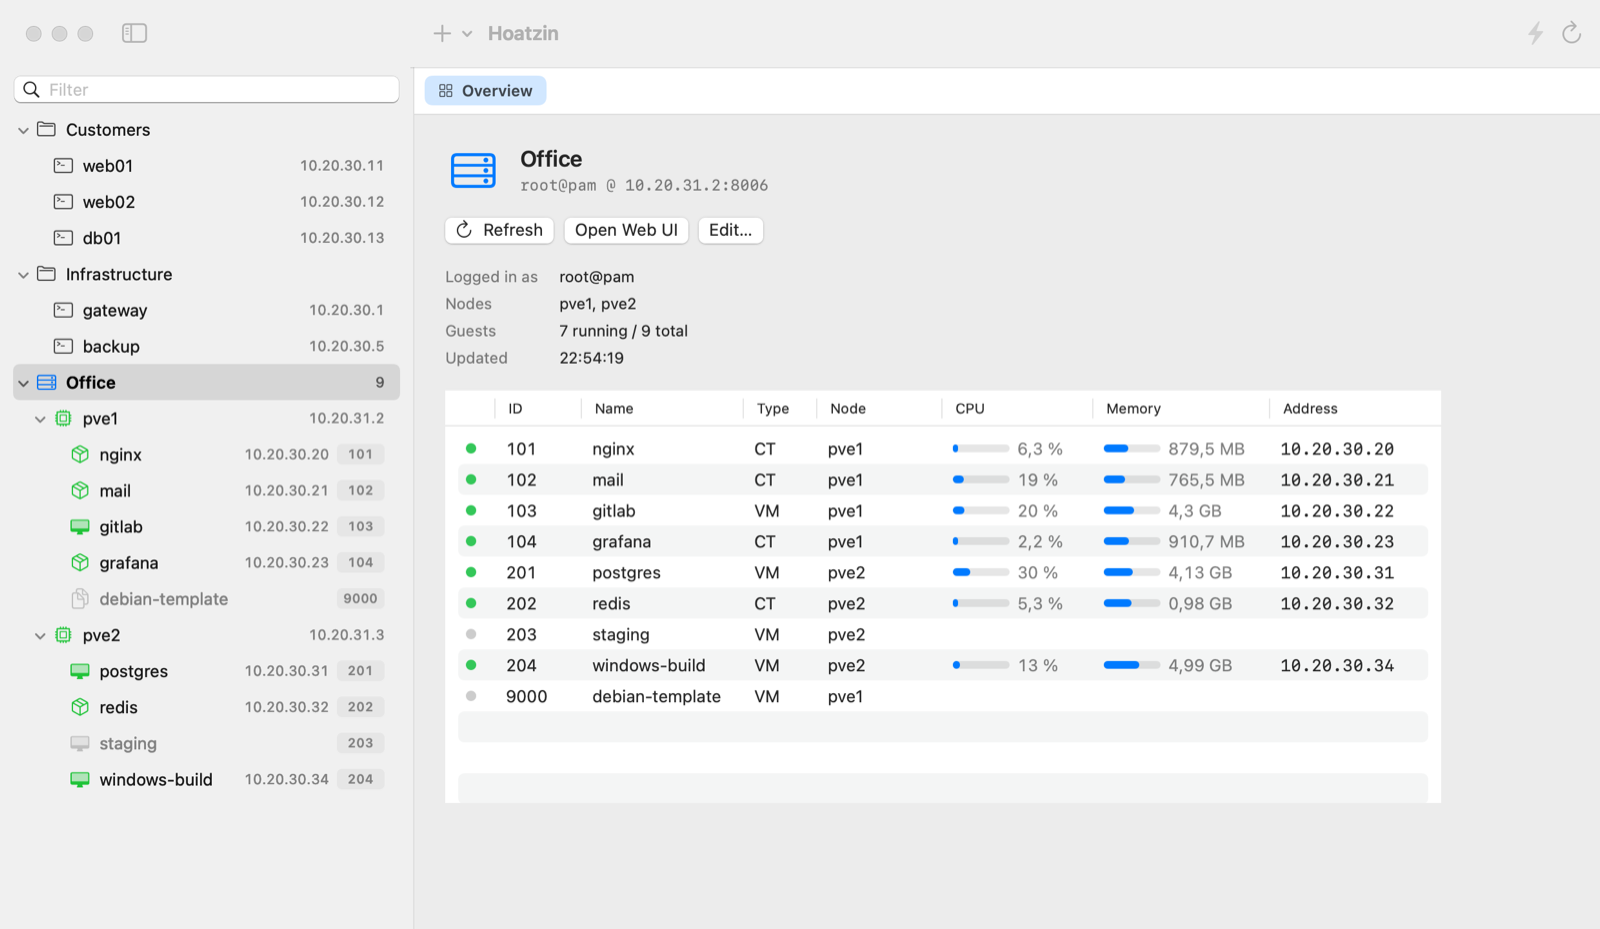
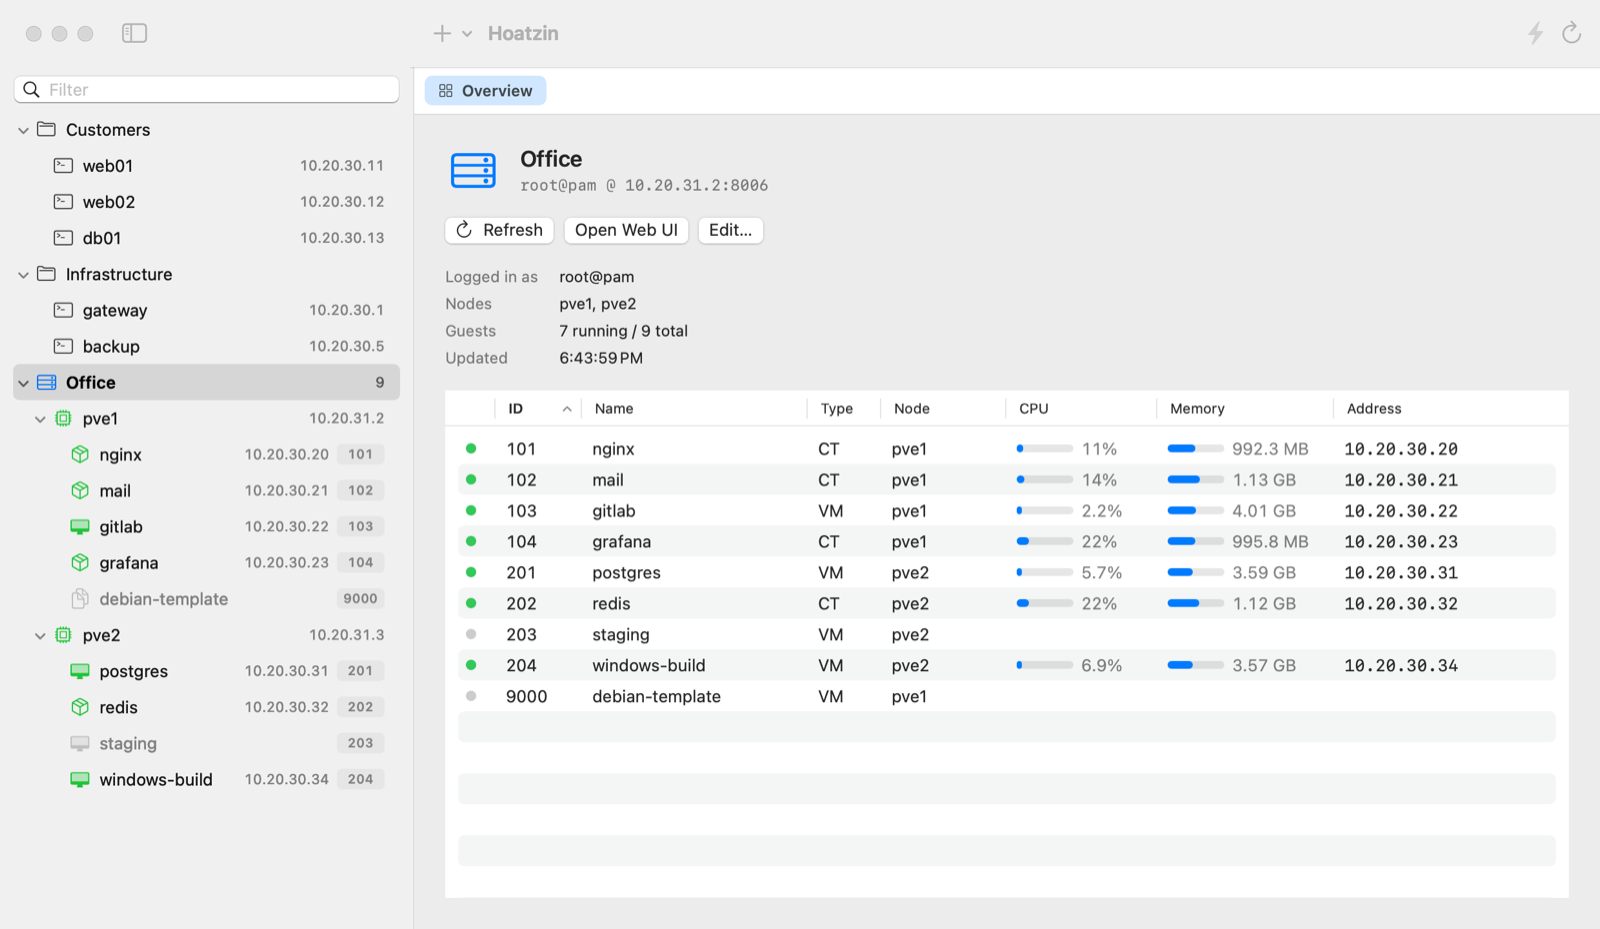
Let the guest table fill the window and open SSH in the built-in tab by default
- The Proxmox server page no longer stops at 820 pt: the guest table takes the
  full window width, so long names and addresses get the room.
- New installs open SSH sessions in the built-in tab, even with iTerm2
  installed. A terminal already chosen in Settings is kept.
- Screenshots: English number formats and the table sorted by ID, regardless
  of the Mac's region and the saved sort; all README screenshots regenerated.

diff --git a/Sources/Hoatzin/Views/OverviewView.swift b/Sources/Hoatzin/Views/OverviewView.swift
@@ -65,15 +65,15 @@ private struct Page<Content: View>: View {
     }
 }
 
-/// Like `Page`, but without scrolling: its last element (a table) takes the rest of the height
-/// and scrolls by itself.
+/// Like `Page`, but without scrolling and without a width limit: its last element (a table) takes
+/// the rest of the window, so long names and addresses get the room a wide window has, and
+/// scrolls by itself.
 private struct FillingPage<Content: View>: View {
     @ViewBuilder var content: Content
 
     var body: some View {
         VStack(alignment: .leading, spacing: 18) { content }
             .padding(24)
-            .frame(maxWidth: 820, maxHeight: .infinity, alignment: .topLeading)
             .frame(maxWidth: .infinity, maxHeight: .infinity, alignment: .topLeading)
     }
 }

diff --git a/Sources/Hoatzin/Views/SettingsView.swift b/Sources/Hoatzin/Views/SettingsView.swift
@@ -2,7 +2,7 @@ import SwiftUI
 
 struct SettingsView: View {
     @Environment(AppModel.self) private var model
-    @AppStorage(Prefs.sshOpenIn) private var sshOpenIn = TerminalChoice.iterm.rawValue
+    @AppStorage(Prefs.sshOpenIn) private var sshOpenIn = TerminalChoice.builtin.rawValue
     @AppStorage(Prefs.itermNewTab) private var itermNewTab = true
     @AppStorage(Prefs.savePasswordsByDefault) private var saveByDefault = true
     @AppStorage(Prefs.terminalFontSize) private var fontSize = 13.0

diff --git a/Sources/Hoatzin/App/Prefs.swift b/Sources/Hoatzin/App/Prefs.swift
@@ -89,7 +89,7 @@ enum Prefs {
 
     static func registerDefaults() {
         UserDefaults.standard.register(defaults: [
-            sshOpenIn: TerminalChoice.iterm.isInstalled ? TerminalChoice.iterm.rawValue : TerminalChoice.builtin.rawValue,
+            sshOpenIn: TerminalChoice.builtin.rawValue,
             itermNewTab: true,
             terminalFontSize: 13.0,
             savePasswordsByDefault: true,

diff --git a/README.md b/README.md
@@ -311,8 +311,8 @@ Hoatzin's actions are in the Shortcuts app (search for "Hoatzin"):
 
 ## Settings
 
-*Hoatzin → Settings…* chooses where SSH sessions open (iTerm2 by default, Terminal, or the
-built-in tab). New iTerm2 sessions open as tabs in the front window via AppleScript (macOS asks
+*Hoatzin → Settings…* chooses where SSH sessions open (the built-in tab by default, iTerm2 or
+Terminal). New iTerm2 sessions open as tabs in the front window via AppleScript (macOS asks
 once for Automation permission); otherwise iTerm2 opens a new window. *Settings → Proxmox* sets how
 often live values from Proxmox are updated.
 
